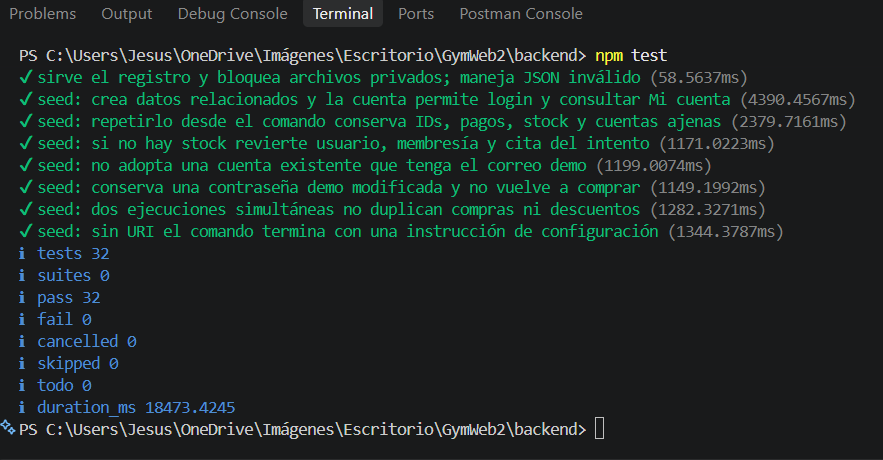
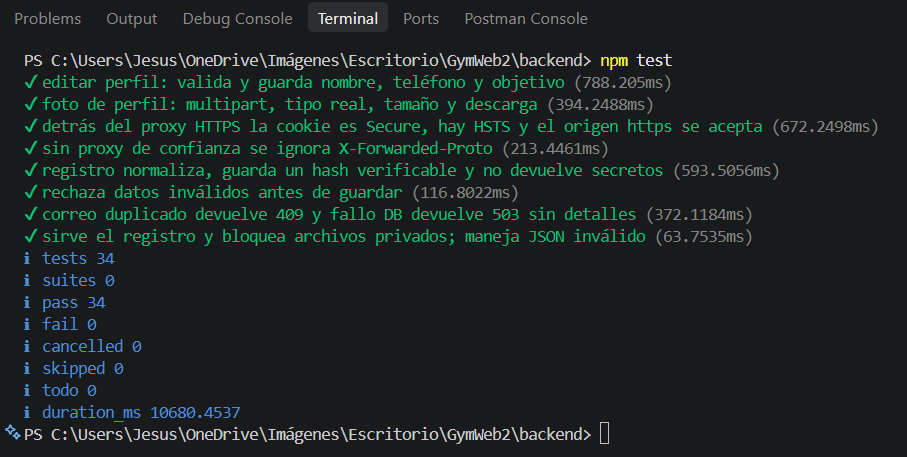
Cambios

Changed region(s): [[0.0, 0.0919, 0.9785, 0.9803], [0.1223, 0.0, 0.6727, 0.0613], [0.0, 0.0, 0.0917, 0.0613]]

diff --git a/docs/pruebas-api.md b/docs/pruebas-api.md
@@ -23,6 +23,6 @@ npm test
 
 ## Resultado
 
-32 pruebas, 32 pasan, 0 fallan.
+34 pruebas, 34 pasan, 0 fallan.
 
-![Resultado de npm test](img/npm-test-semana13.png)
+![Resultado de npm test](docs/npm-test.png)
